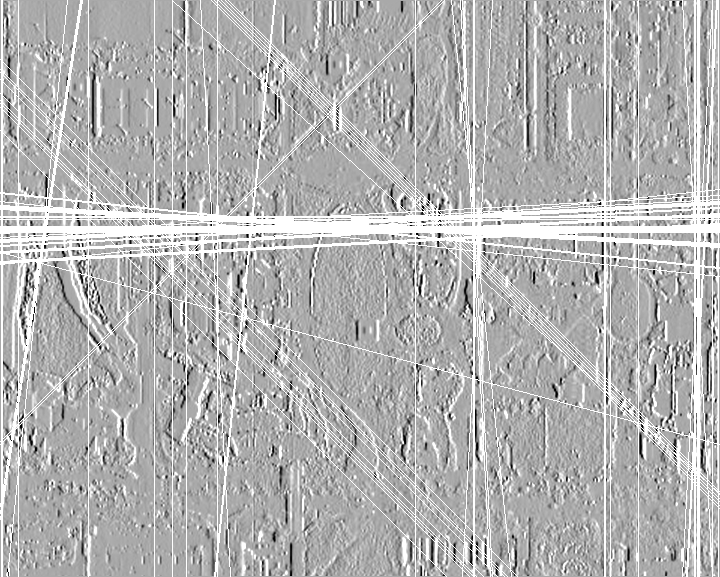
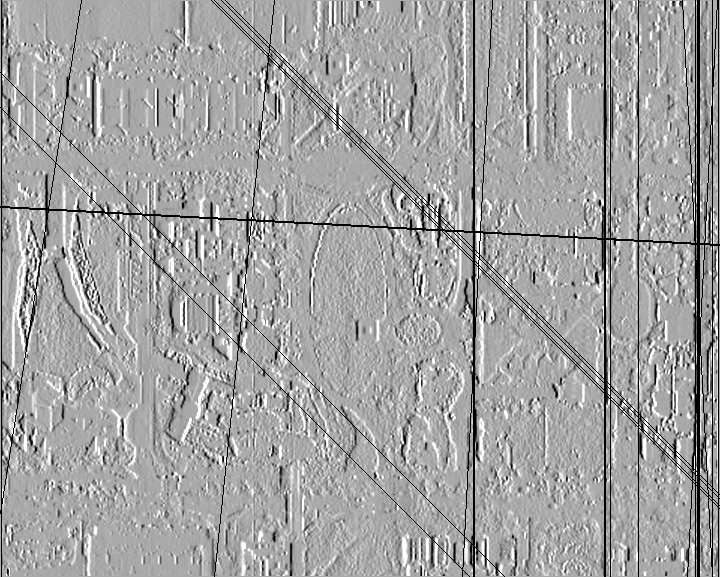
hough working

diff --git a/src/hough_accum.cpp b/src/hough_accum.cpp
@@ -452,7 +452,7 @@ Line_segment *Hough_accum::clip_window(Polar_line *line) {
 
 int Hough_accum::choose_threshold(cv_enums::CV_threshold_type threshold_type) {
   if (threshold_type == cv_enums::CV_threshold_type::FIXED) {
-    return bounds.max_value * 0.01; // 0.40; // 0.99 for all
+    return bounds.max_value * 0.55; //0.90;
   } else if (threshold_type == cv_enums::CV_threshold_type::PERCENTAGE) {
     return bounds.max_value * 0.85;
   } else return -1;
@@ -469,7 +469,7 @@ void Hough_accum::find_peaks(list<Polar_line *> &lines, int peak_threshold,
           Polar_line *line = new Polar_line(rho_index, rho, theta_index, get_cos(theta_index),
                                             get_sin(theta_index), count);
           lines.push_back(line);
-          if (debug) {
+          if (debug && false) {
             cout << "Hough_accum::find_peaks: line " << line->to_string()
                  << endl;
           }

diff --git a/src/image-hough.cpp b/src/image-hough.cpp
@@ -48,7 +48,7 @@ int main(int argc, char **argv) {
                                 255, cv_enums::CV_8U);
        if (debug)
          cout << "image-hough: out_image " << out_image->to_string() << endl;
-    out_image->draw_line_segments(hough.line_segments, 255);
+    out_image->draw_line_segments(hough.line_segments, 0);
       hough.write(hough_filename, "\t", errors);
       out_image->write_jpeg(image_filename+".jpg", errors);
       break;

diff --git a/src/point.cpp b/src/point.cpp
@@ -20,7 +20,7 @@ Point::Point(Point *point) :
 
 std::string Point::to_string() {
   std::ostringstream os;
-  os << " row " << row
+  os << "row " << row
      << " col " << col;
   return os.str();
 }
